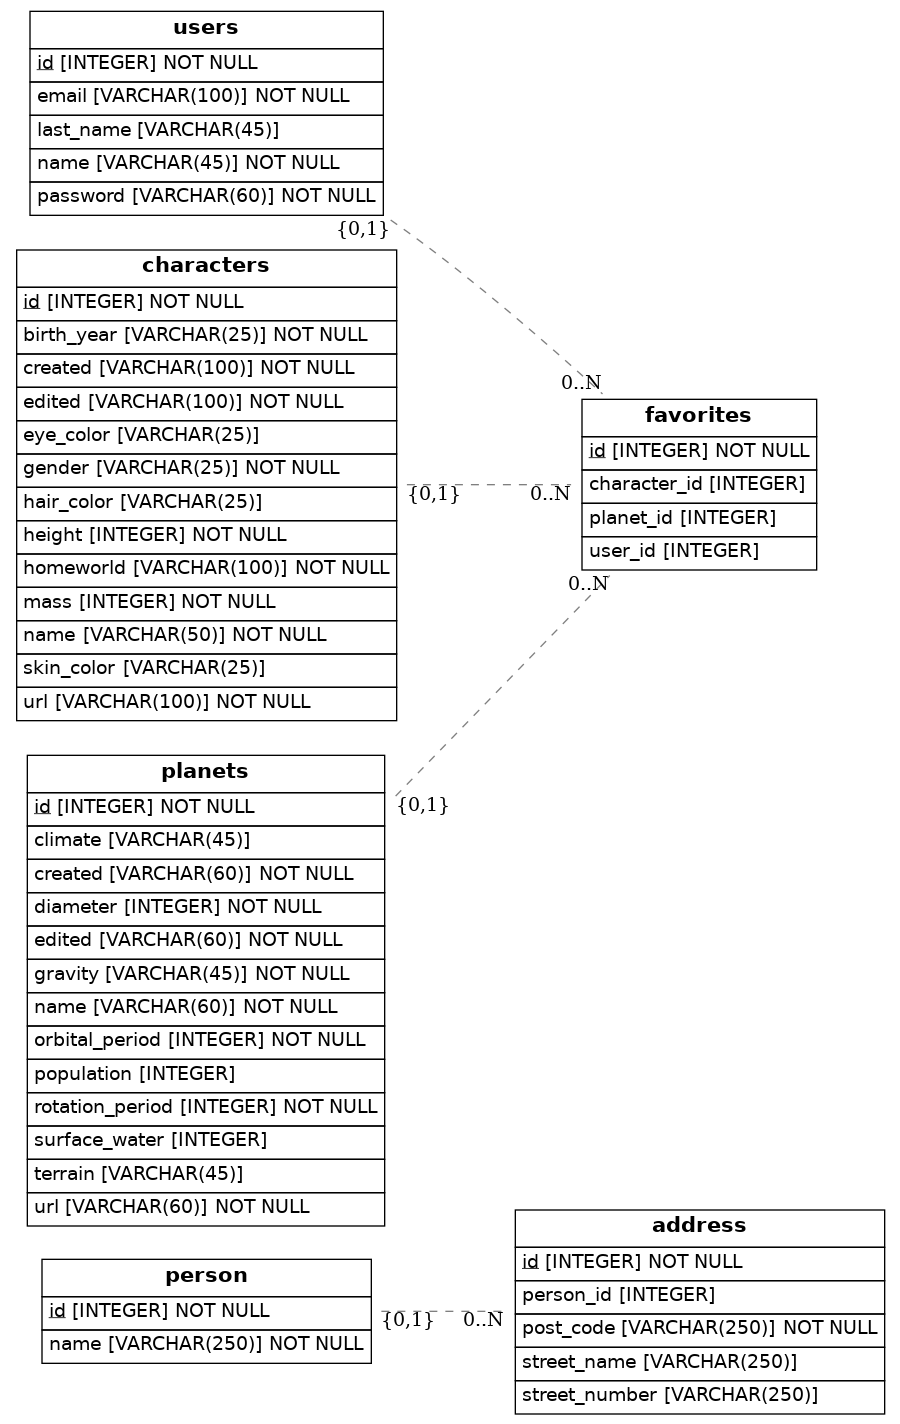
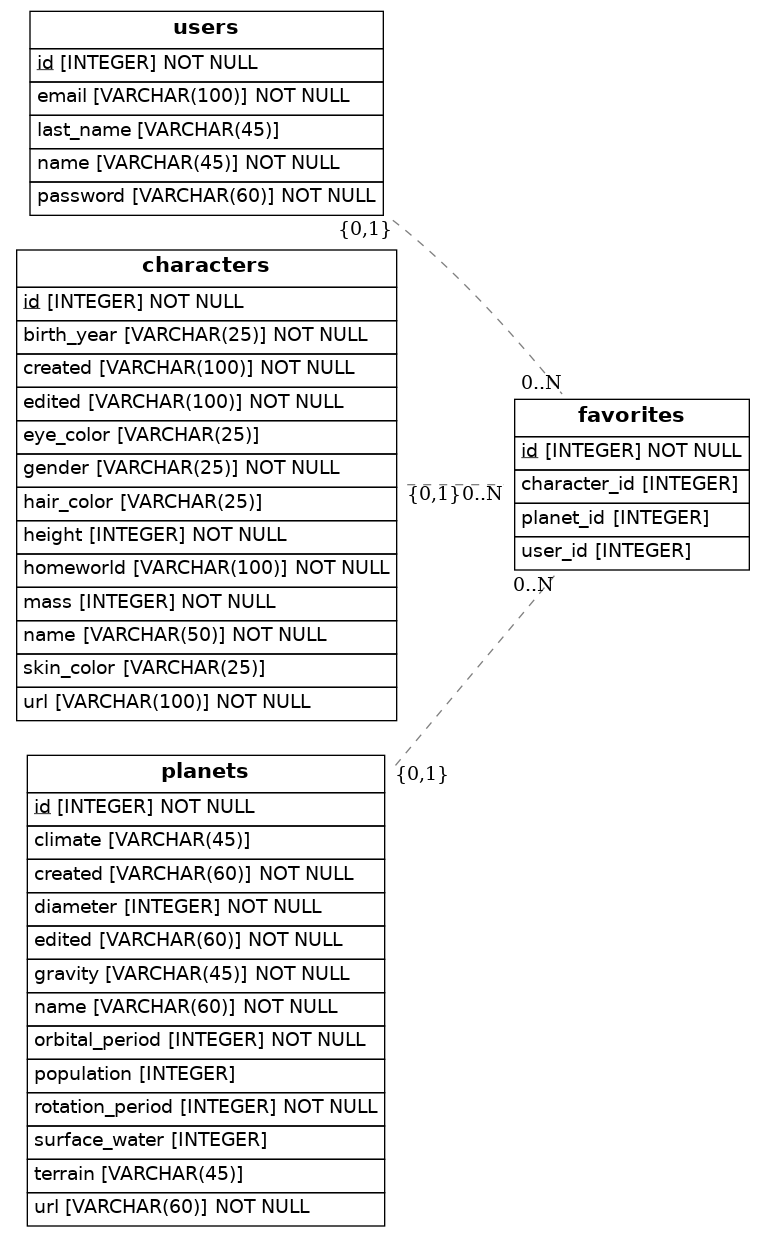
Agregué relacion

diff --git a/src/models.py b/src/models.py
@@ -7,26 +7,26 @@ from eralchemy2 import render_er
 
 Base = declarative_base()
 
-class Person(Base):
-    __tablename__ = 'person'
-    # Here we define columns for the table person
-    # Notice that each column is also a normal Python instance attribute.
-    id = Column(Integer, primary_key=True)
-    name = Column(String(250), nullable=False)
+# class Person(Base):
+#     __tablename__ = 'person'
+#     # Here we define columns for the table person
+#     # Notice that each column is also a normal Python instance attribute.
+#     id = Column(Integer, primary_key=True)
+#     name = Column(String(250), nullable=False)
 
-class Address(Base):
-    __tablename__ = 'address'
-    # Here we define columns for the table address.
-    # Notice that each column is also a normal Python instance attribute.
-    id = Column(Integer, primary_key=True)
-    street_name = Column(String(250))
-    street_number = Column(String(250))
-    post_code = Column(String(250), nullable=False)
-    person_id = Column(Integer, ForeignKey('person.id'))
-    person = relationship(Person)
+# class Address(Base):
+#     __tablename__ = 'address'
+#     # Here we define columns for the table address.
+#     # Notice that each column is also a normal Python instance attribute.
+#     id = Column(Integer, primary_key=True)
+#     street_name = Column(String(250))
+#     street_number = Column(String(250))
+#     post_code = Column(String(250), nullable=False)
+#     person_id = Column(Integer, ForeignKey('person.id'))
+#     person = relationship(Person)
 
-    def to_dict(self):
-        return {}
+#     def to_dict(self):
+#         return {}
 
 class Usuario(Base):
     __tablename__ = "users"
@@ -35,14 +35,6 @@ class Usuario(Base):
     last_name = Column(String(45), nullable=True)
     email = Column(String(100), nullable=False)
     password = Column(String(60), nullable=False)
-
-class Favorites(Base):
-    __tablename__="favorites"
-    id = Column(Integer, primary_key=True)
-    user_id = Column(Integer, ForeignKey('users.id'))
-    character_id = Column(Integer, ForeignKey('characters.id'))
-    planet_id = Column(Integer, ForeignKey('planets.id'))
-    user = relationship(Usuario)
 
 class Characters(Base):
     __tablename__="characters"
@@ -76,7 +68,15 @@ class Planets(Base):
     name = Column(String(60), nullable=False)
     url = Column(String(60), nullable=False)
 
-
+class Favorites(Base):
+    __tablename__="favorites"
+    id = Column(Integer, primary_key=True)
+    user_id = Column(Integer, ForeignKey('users.id'))
+    character_id = Column(Integer, ForeignKey('characters.id'))
+    planet_id = Column(Integer, ForeignKey('planets.id'))
+    user = relationship(Usuario)
+    planet = relationship(Planets)
+    character = relationship(Characters)
 
 ## Draw from SQLAlchemy base
 render_er(Base, 'diagram.png')
